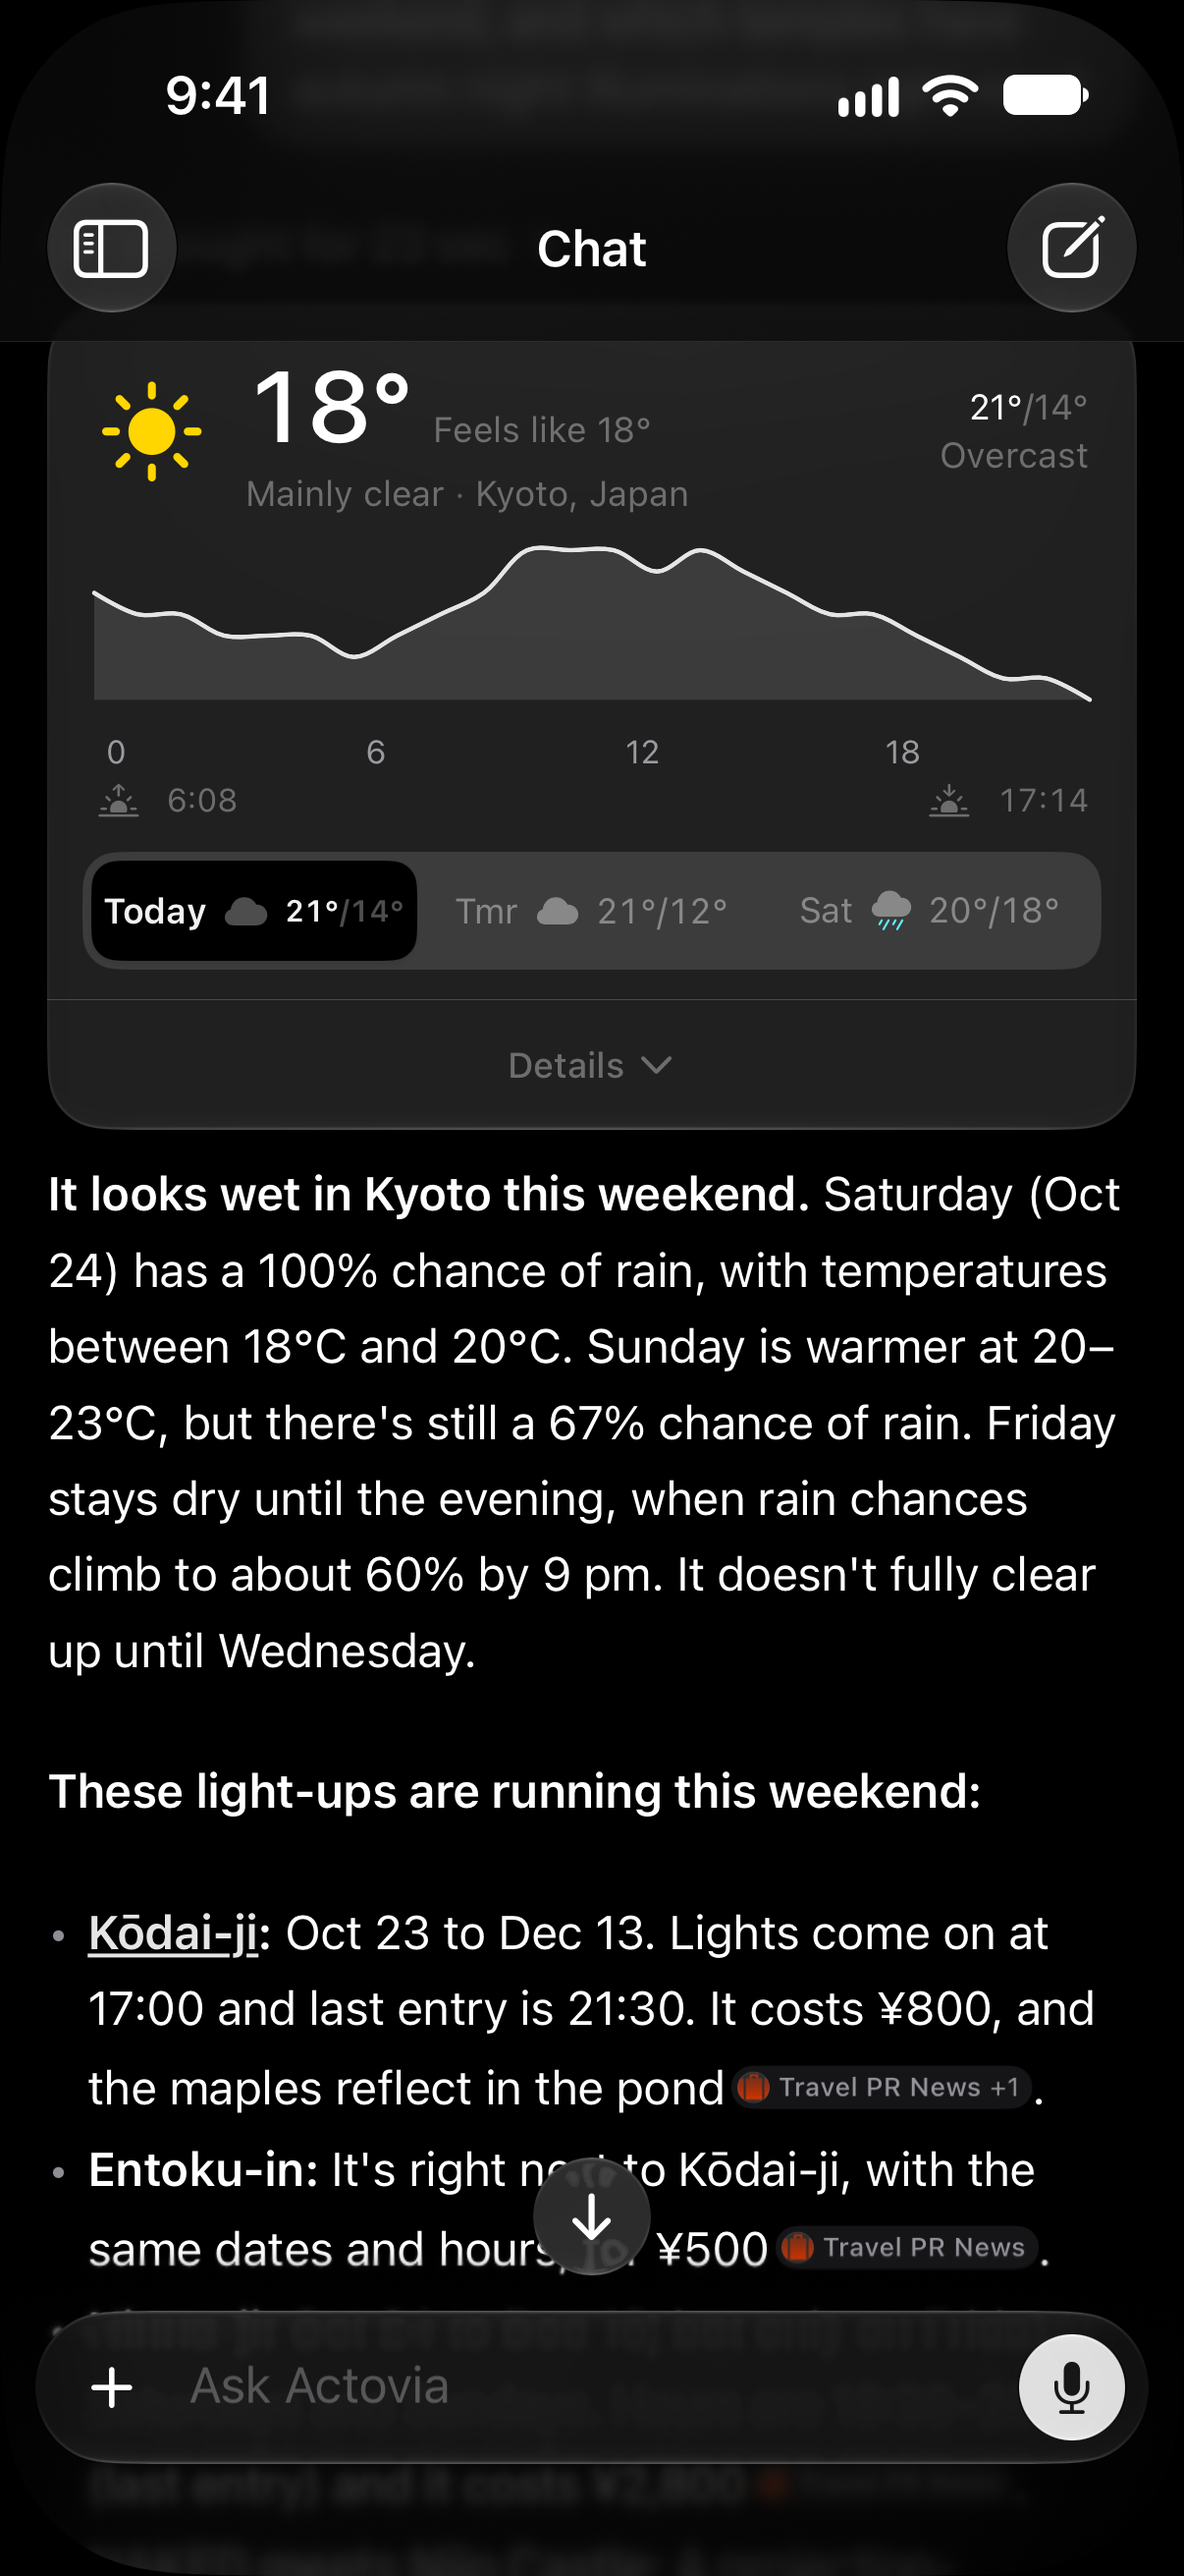
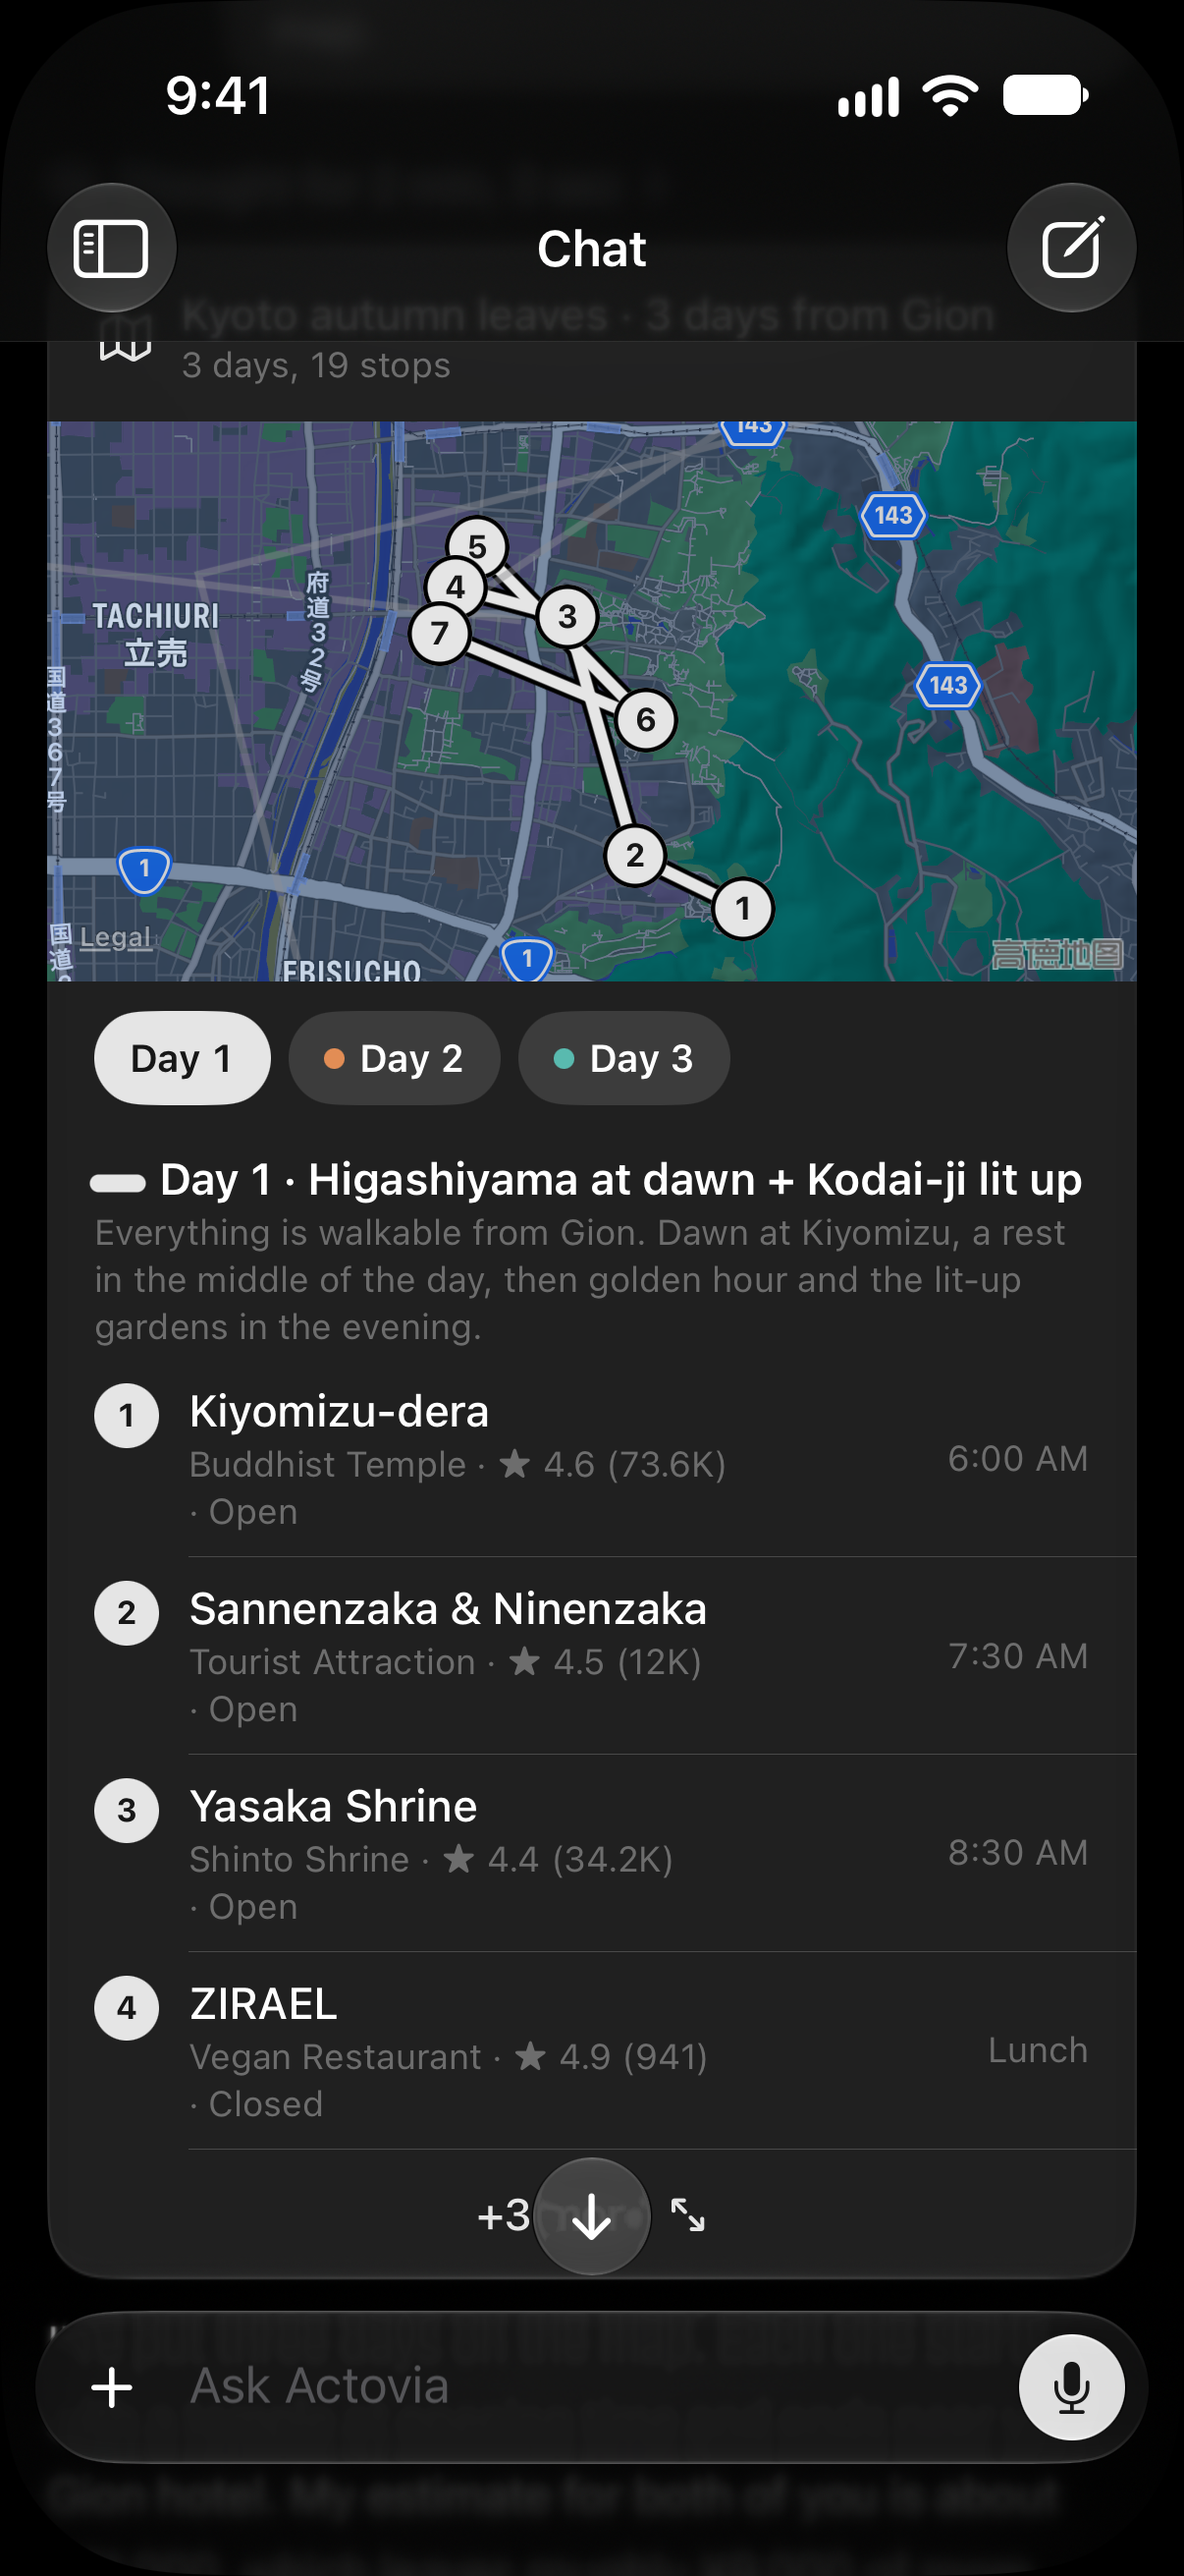
site: Tailscale + keep-awake guidance; the iPhone row on one line; the map chat on the phone; the compaction shot
Remote access documents the Tailscale setup — MagicDNS on, since a pairing
link names the computer by its MagicDNS name and never its bare 100.x
address (iOS trusts the self-signed certificate only for a name) — and how
to keep the Mac awake, which Actovia does not do by itself; the Download
page's pairing step points there. The phone frame no longer draws its own
Dynamic Island over a capture that already has one, and the three phones
sit on one line whatever their copy's height; the Chat phone shows the
Kyoto map. The compaction card is captured from the real component fed a
scripted status stream.

diff --git a/app/_components/download.tsx b/app/_components/download.tsx
@@ -167,7 +167,22 @@ export function Download({ downloads }: { downloads: Downloads }) {
             <Disclosure n={3} title="Pair your iPhone">
               In Settings → Integrations → Devices, start pairing and scan the
               QR code with Actovia for iPhone. It works on your own network, and
-              the phone verifies the computer before it sends anything.
+              the phone verifies the computer before it sends anything. Away
+              from home, put both on one{' '}
+              <a
+                href="https://tailscale.com"
+                className="text-ink underline decoration-hairline underline-offset-4 hover:decoration-ink"
+              >
+                Tailscale
+              </a>{' '}
+              network with MagicDNS on, and keep the computer from sleeping —{' '}
+              <Link
+                href="/docs/remote-access#from-anywhere"
+                className="text-ink underline decoration-hairline underline-offset-4 hover:decoration-ink"
+              >
+                how to set it up
+              </Link>
+              .
             </Disclosure>
           </li>
         </ol>

diff --git a/app/_components/iphone.tsx b/app/_components/iphone.tsx
@@ -5,7 +5,7 @@ const SCREENS = [
   {
     shot: SHOTS.iphoneChat,
     title: 'Chat',
-    body: 'Your conversations, streamed from your computer with every tool card and source.'
+    body: 'Your conversations, streamed from your computer with every tool card and source — a three-day plan on a map, here.'
   },
   {
     shot: SHOTS.iphoneControl,
@@ -55,9 +55,10 @@ export function IPhone() {
               <p className="text-graphite mt-2 max-w-[32ch] font-light">
                 {s.body}
               </p>
+              {/* The phones sit on one line whatever the copy's height. */}
               <PhoneShot
                 spec={s.shot}
-                className="mx-auto mt-10 w-full max-w-[280px]"
+                className="mx-auto mt-auto w-full max-w-[280px] pt-10"
               />
             </li>
           ))}

diff --git a/components/screenshot.tsx b/components/screenshot.tsx
@@ -81,7 +81,6 @@ export function Screenshot({
           )}
         >
           {dark && <source srcSet={dark} media="(prefers-color-scheme: dark)" />}
-          {/* eslint-disable-next-line @next/next/no-img-element -- static captures of known size, no optimisation needed */}
           <img
             src={src}
             alt={caption}

diff --git a/app/_components/shot.tsx b/app/_components/shot.tsx
@@ -195,8 +195,6 @@ export function PhoneShot({
             </div>
           </div>
         )}
-        {/* The Dynamic Island, over the screen as on the device. */}
-        <i className="absolute top-[1.6%] left-1/2 h-[3.6%] w-[31%] -translate-x-1/2 rounded-full bg-black" />
       </div>
     </div>
   )
